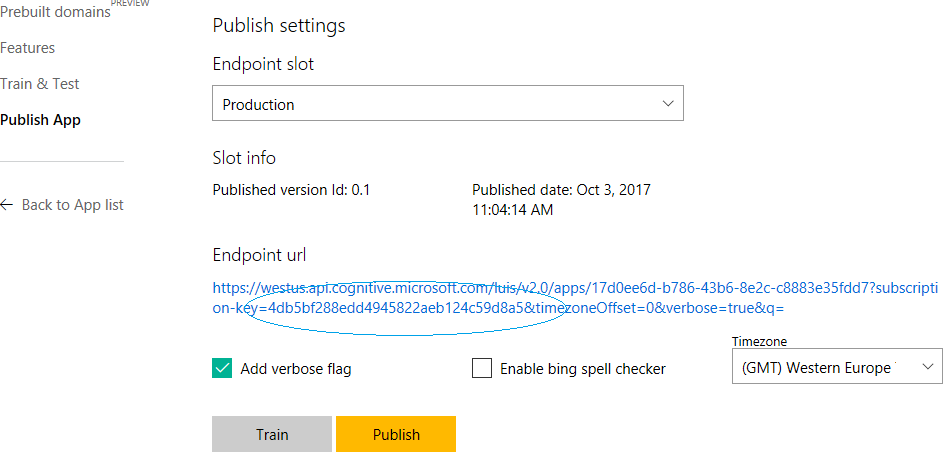
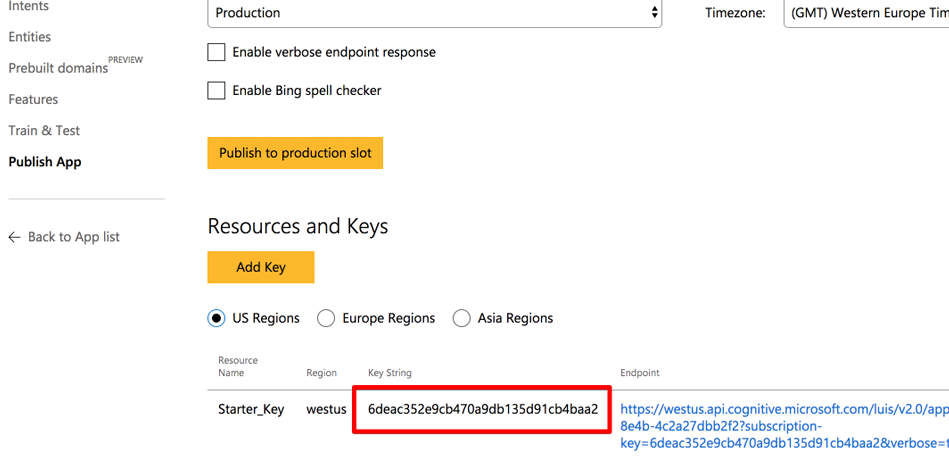
Update LUIS Publish App docs section with updated content
The subscription key has now its own section on the published application page

diff --git a/bot-integration-samples/hotel-finder/csharp/README.md b/bot-integration-samples/hotel-finder/csharp/README.md
@@ -47,8 +47,8 @@ You'll need these two values to configure the LuisDialog through the LuisModel a
     
 2. Subscription Key
 
-    Click on the Publish App link from the LUIS application dashboard.  Once your app is published, copy the subscription key from the app endpoint url on the Publish App page.
-    
+    Once your app is published, copy the subscription key from the application resources on the Publish App page.
+
     ![Programmatic API Key](images/prereqs-apikey.png)
     
 

diff --git a/bot-integration-samples/hotel-finder/README.md b/bot-integration-samples/hotel-finder/README.md
@@ -38,8 +38,8 @@ You'll need these two values to configure the code in your application:
     
 2. Subscription Key
 
-    Click on the Publish App link from the LUIS application dashboard.  Once your app is published, copy the subscription key from the app endpoint url on the Publish App page.
-    
+    Once your app is published, copy the subscription key from the application resources on the Publish App page.
+
     ![Programmatic API Key](csharp/images/prereqs-apikey.png)
     
 
